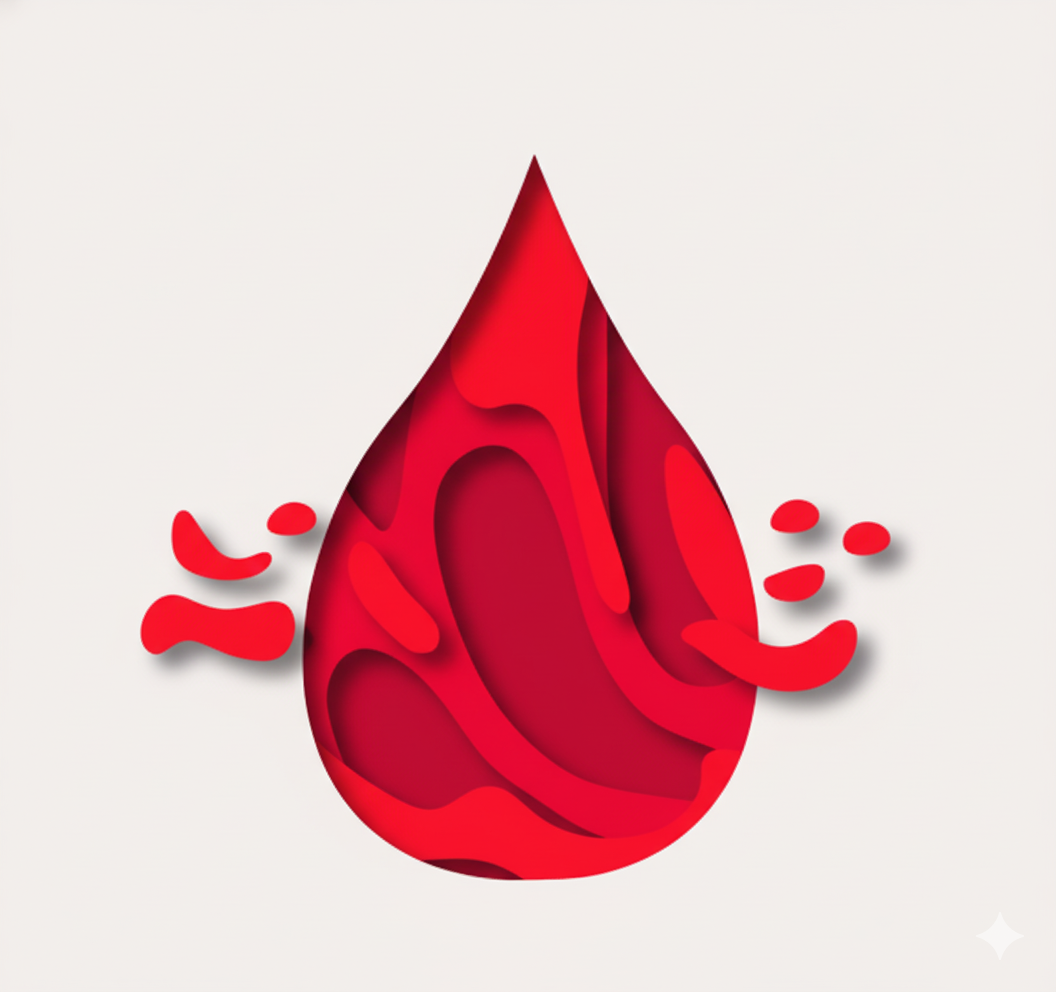
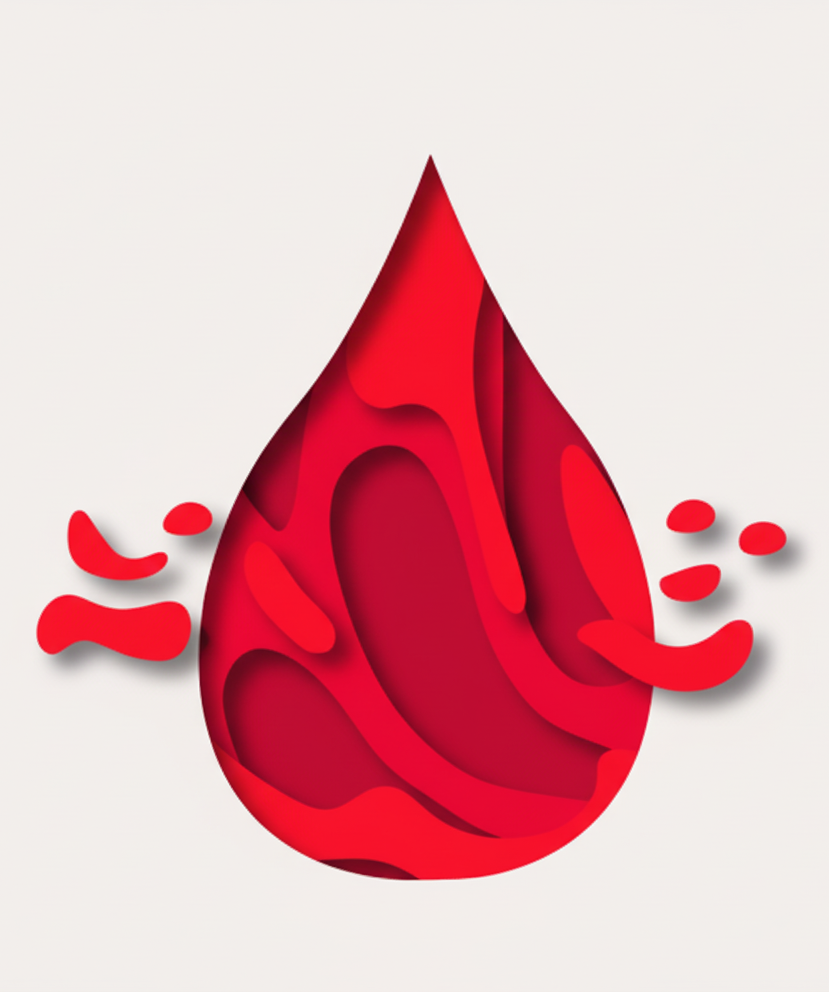
llorando con el dashboard

diff --git a/frontend/src/pages/DashboardPage.jsx b/frontend/src/pages/DashboardPage.jsx
@@ -21,7 +21,7 @@ import PropTypes from "prop-types";
 import { educationData } from "../data/educationData"; 
 import { educationEstatico } from "../data/educationEstatico"; 
 import { useState } from "react";
-import gotaImage from "@/assets/imagengota.png"; // Imagen para la tarjeta interactiva
+import bolsasangre from "@/assets/bolsasangre.png"; // Imagen para la tarjeta interactiva
 
 
 // Función auxiliar para renderizar la tabla de compatibilidad (Mantenida)
@@ -147,20 +147,11 @@ export default function DashboardPage({ user, onLogout }) {
                 
                 {/* 2. TARJETA INTERACTIVA (Requisitos/Proceso) - Muestra TODA la info */}
                 <div className="container mx-auto px-6 max-w-5xl mb-16">
-                    <Card className={`
-                        w-full 
-                        bg-accent border-4 border-accent
-                        transition-all duration-300 relative overflow-visible z-10 
-                        before:content-[''] before:absolute before:inset-0 
-                        before:bg-background before:rounded-lg 
-                        before:translate-x-2 before:translate-y-2 
-                        before:z-[-1] 
-                    `}>
-                        <div className="md:flex">
+                        <div className="md:flex relative">
                             {/* Columna de Imagen/Ícono (1/3) */}
-                            <div className={`md:w-1/3 p-4 flex flex-col items-center justify-center rounded-l-lg ${staticRotatorData.colorClass?.replace('text-', 'bg-') || 'bg-primary/10'}`}>
+                            <div className={`md:w-1/3 p-4 flex flex-col items-center justify-center rounded-l-lg`}>
                                 <img 
-                                    src={gotaImage} 
+                                    src={bolsasangre} 
                                     alt={staticRotatorData.title} 
                                     className="w-full h-auto object-cover rounded-md shadow-lg"
                                 />
@@ -174,17 +165,16 @@ export default function DashboardPage({ user, onLogout }) {
                                         {/* 🚨 Botón de rotación: Solo la flecha */}
                                         <Button 
                                             onClick={toggleStaticCard} 
-                                            variant="ghost" 
-                                            size="sm" 
-                                            className="text-primary hover:bg-primary/10 p-1"
+                                            variant="ghost"
+                                            className="absolute right-4 top-1/2 -translate-y-1/2 text-primary hover:bg-primary/10 p-1"
                                             aria-label="Cambiar información estática"
                                             title={currentStaticCardId === 1 ? 'Ver Proceso' : 'Ver Requisitos'}
                                         >
-                                            <ArrowRight className="h-6 w-6" /> 
+                                            <ArrowRight className="h-10 w-10" /> 
                                         </Button>
                                     </CardTitle>
                                     {/* Subtítulo de la data estática */}
-                                    <p className="text-sm text-foreground/80 font-semibold">{staticRotatorData.details.subtitle}</p>
+                                    <p className="text-base text-foreground/80 font-semibold">{staticRotatorData.details.subtitle}</p>
                                 </CardHeader>
                                 <CardContent className="p-0 pt-3">
                                     {/* Muestra TODOS los puntos de la data estática como párrafos */}
@@ -253,7 +243,6 @@ export default function DashboardPage({ user, onLogout }) {
             </div> {/* Cierre del div principal de gradiente */}
 
 
-            {/* MODAL DE DESPLIEGUE (AlertDialog) - Mantenido para las tarjetas dinámicas */}
             <AlertDialog open={isModalOpen} onOpenChange={handleModalClose}>
                 <AlertDialogContent className="max-w-xl md:max-w-3xl">
                     {selectedCard && (
